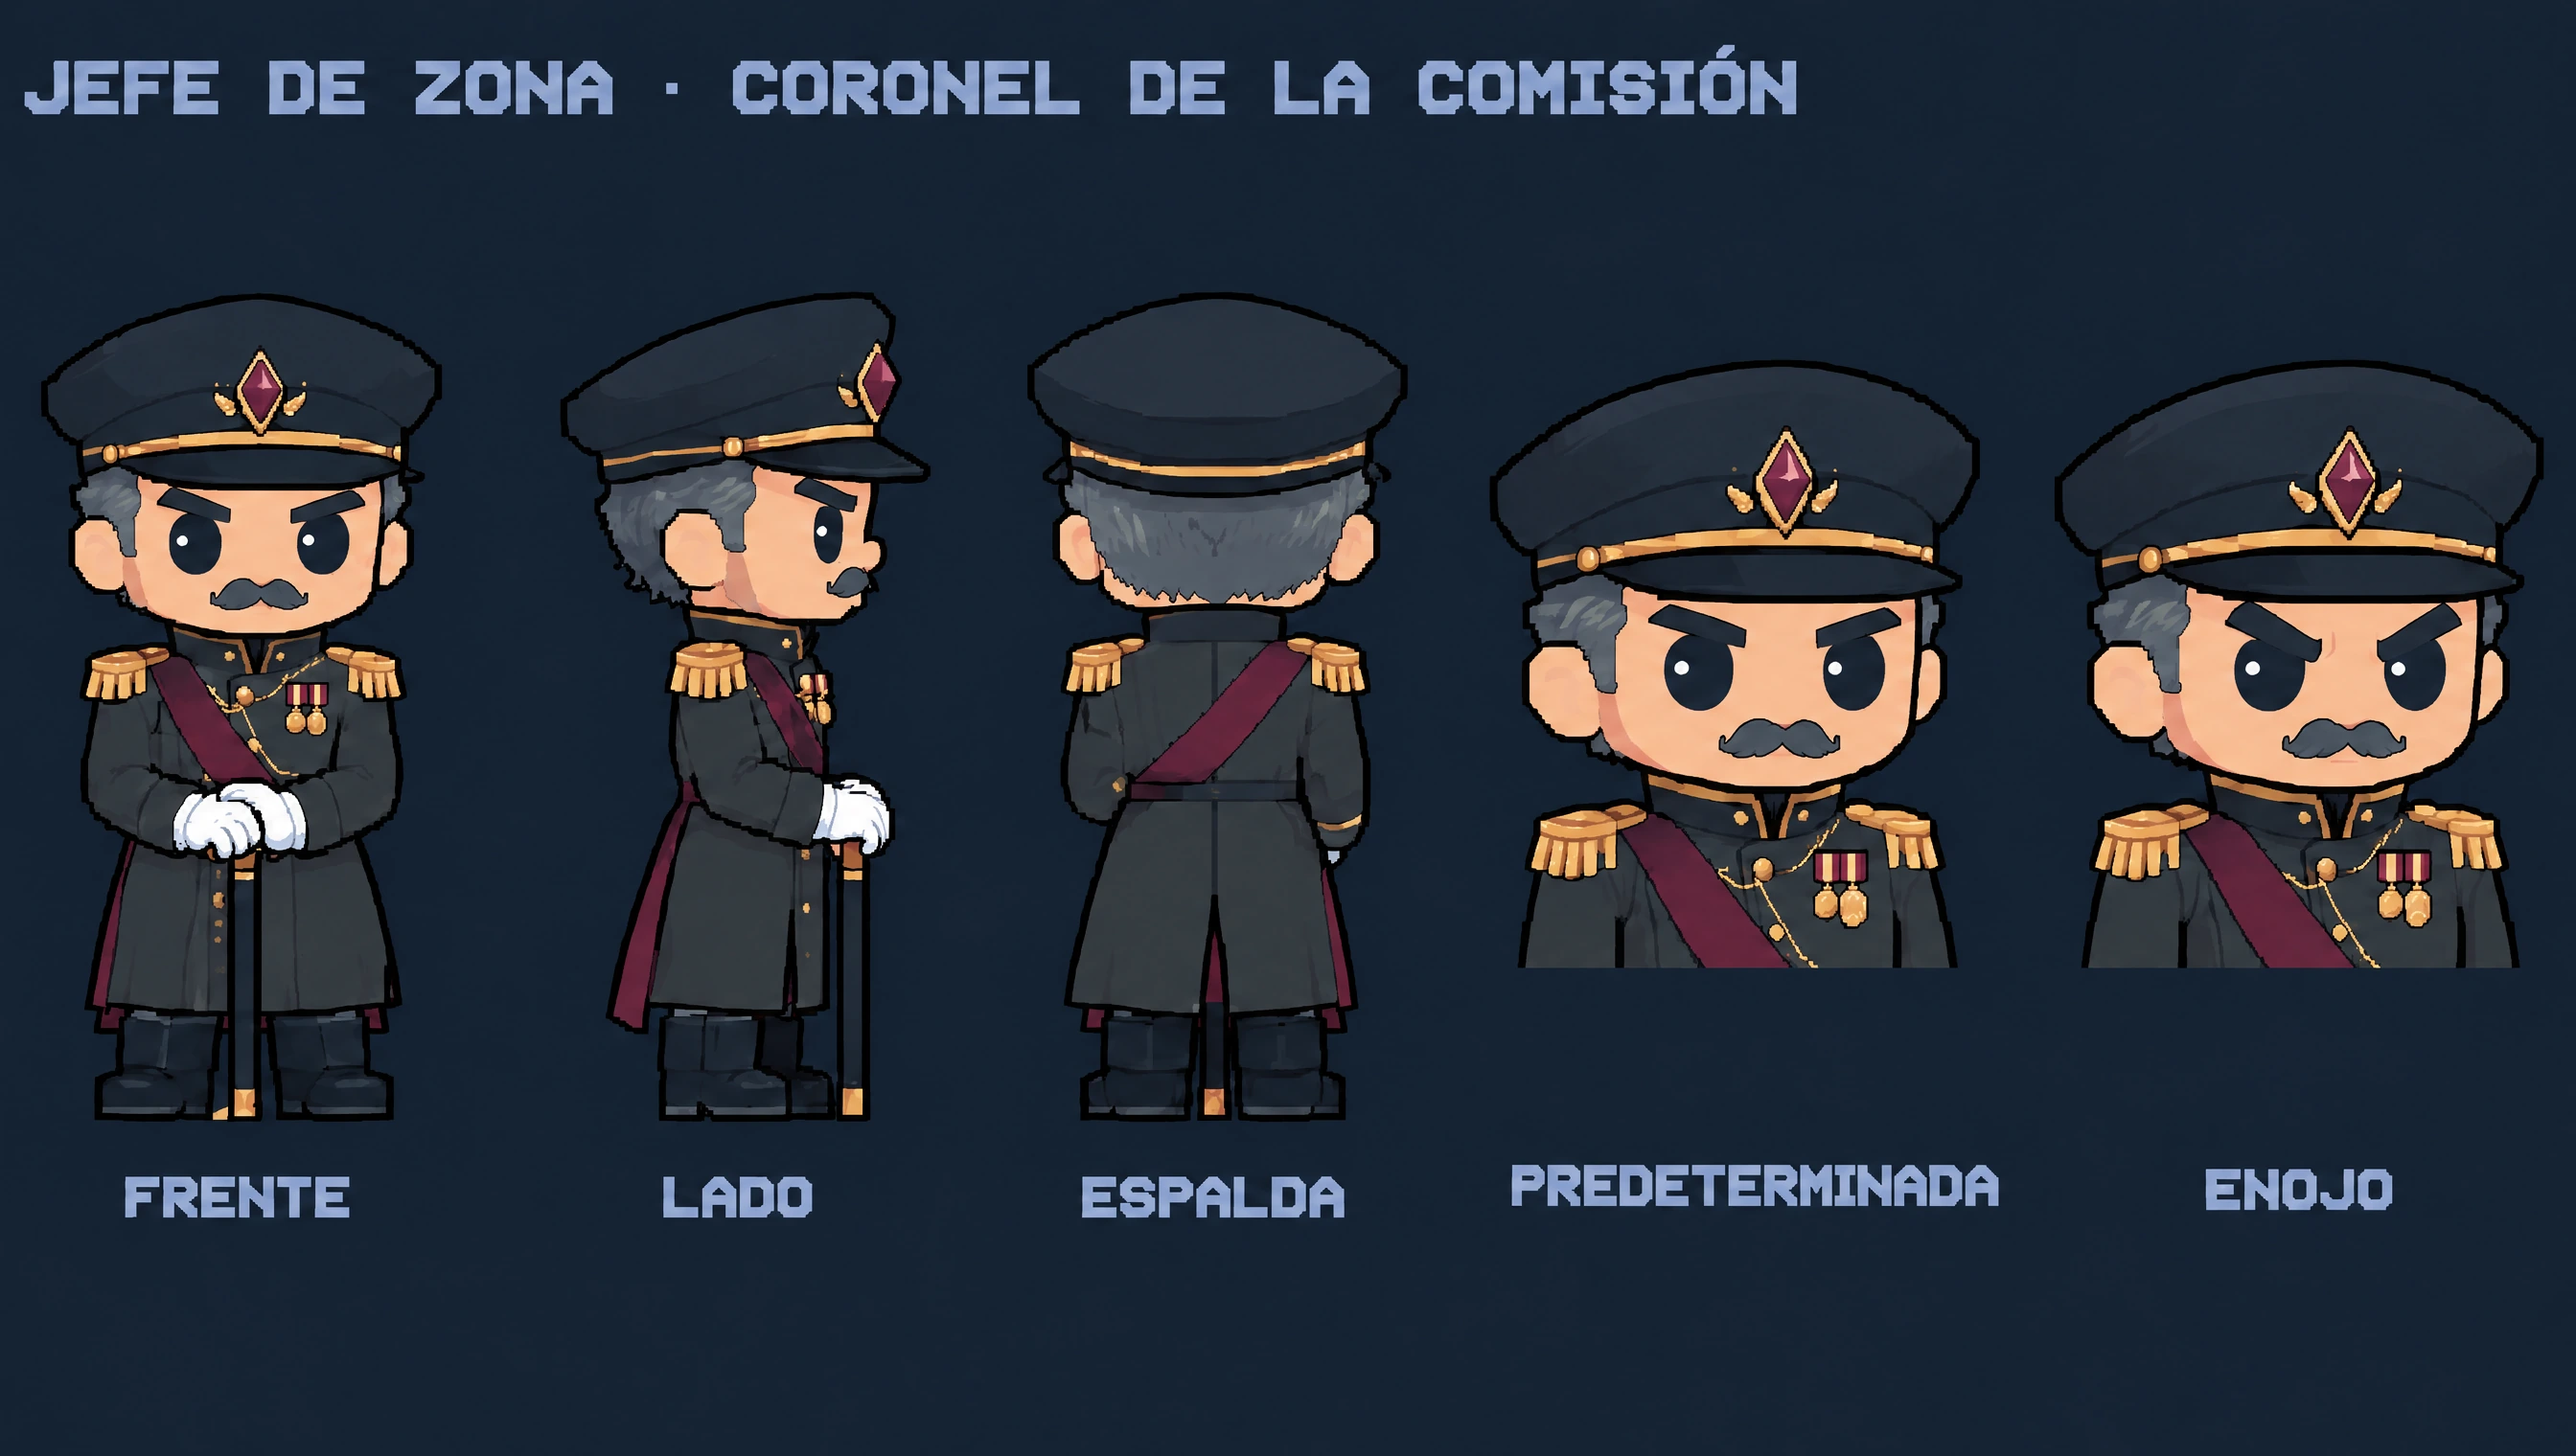
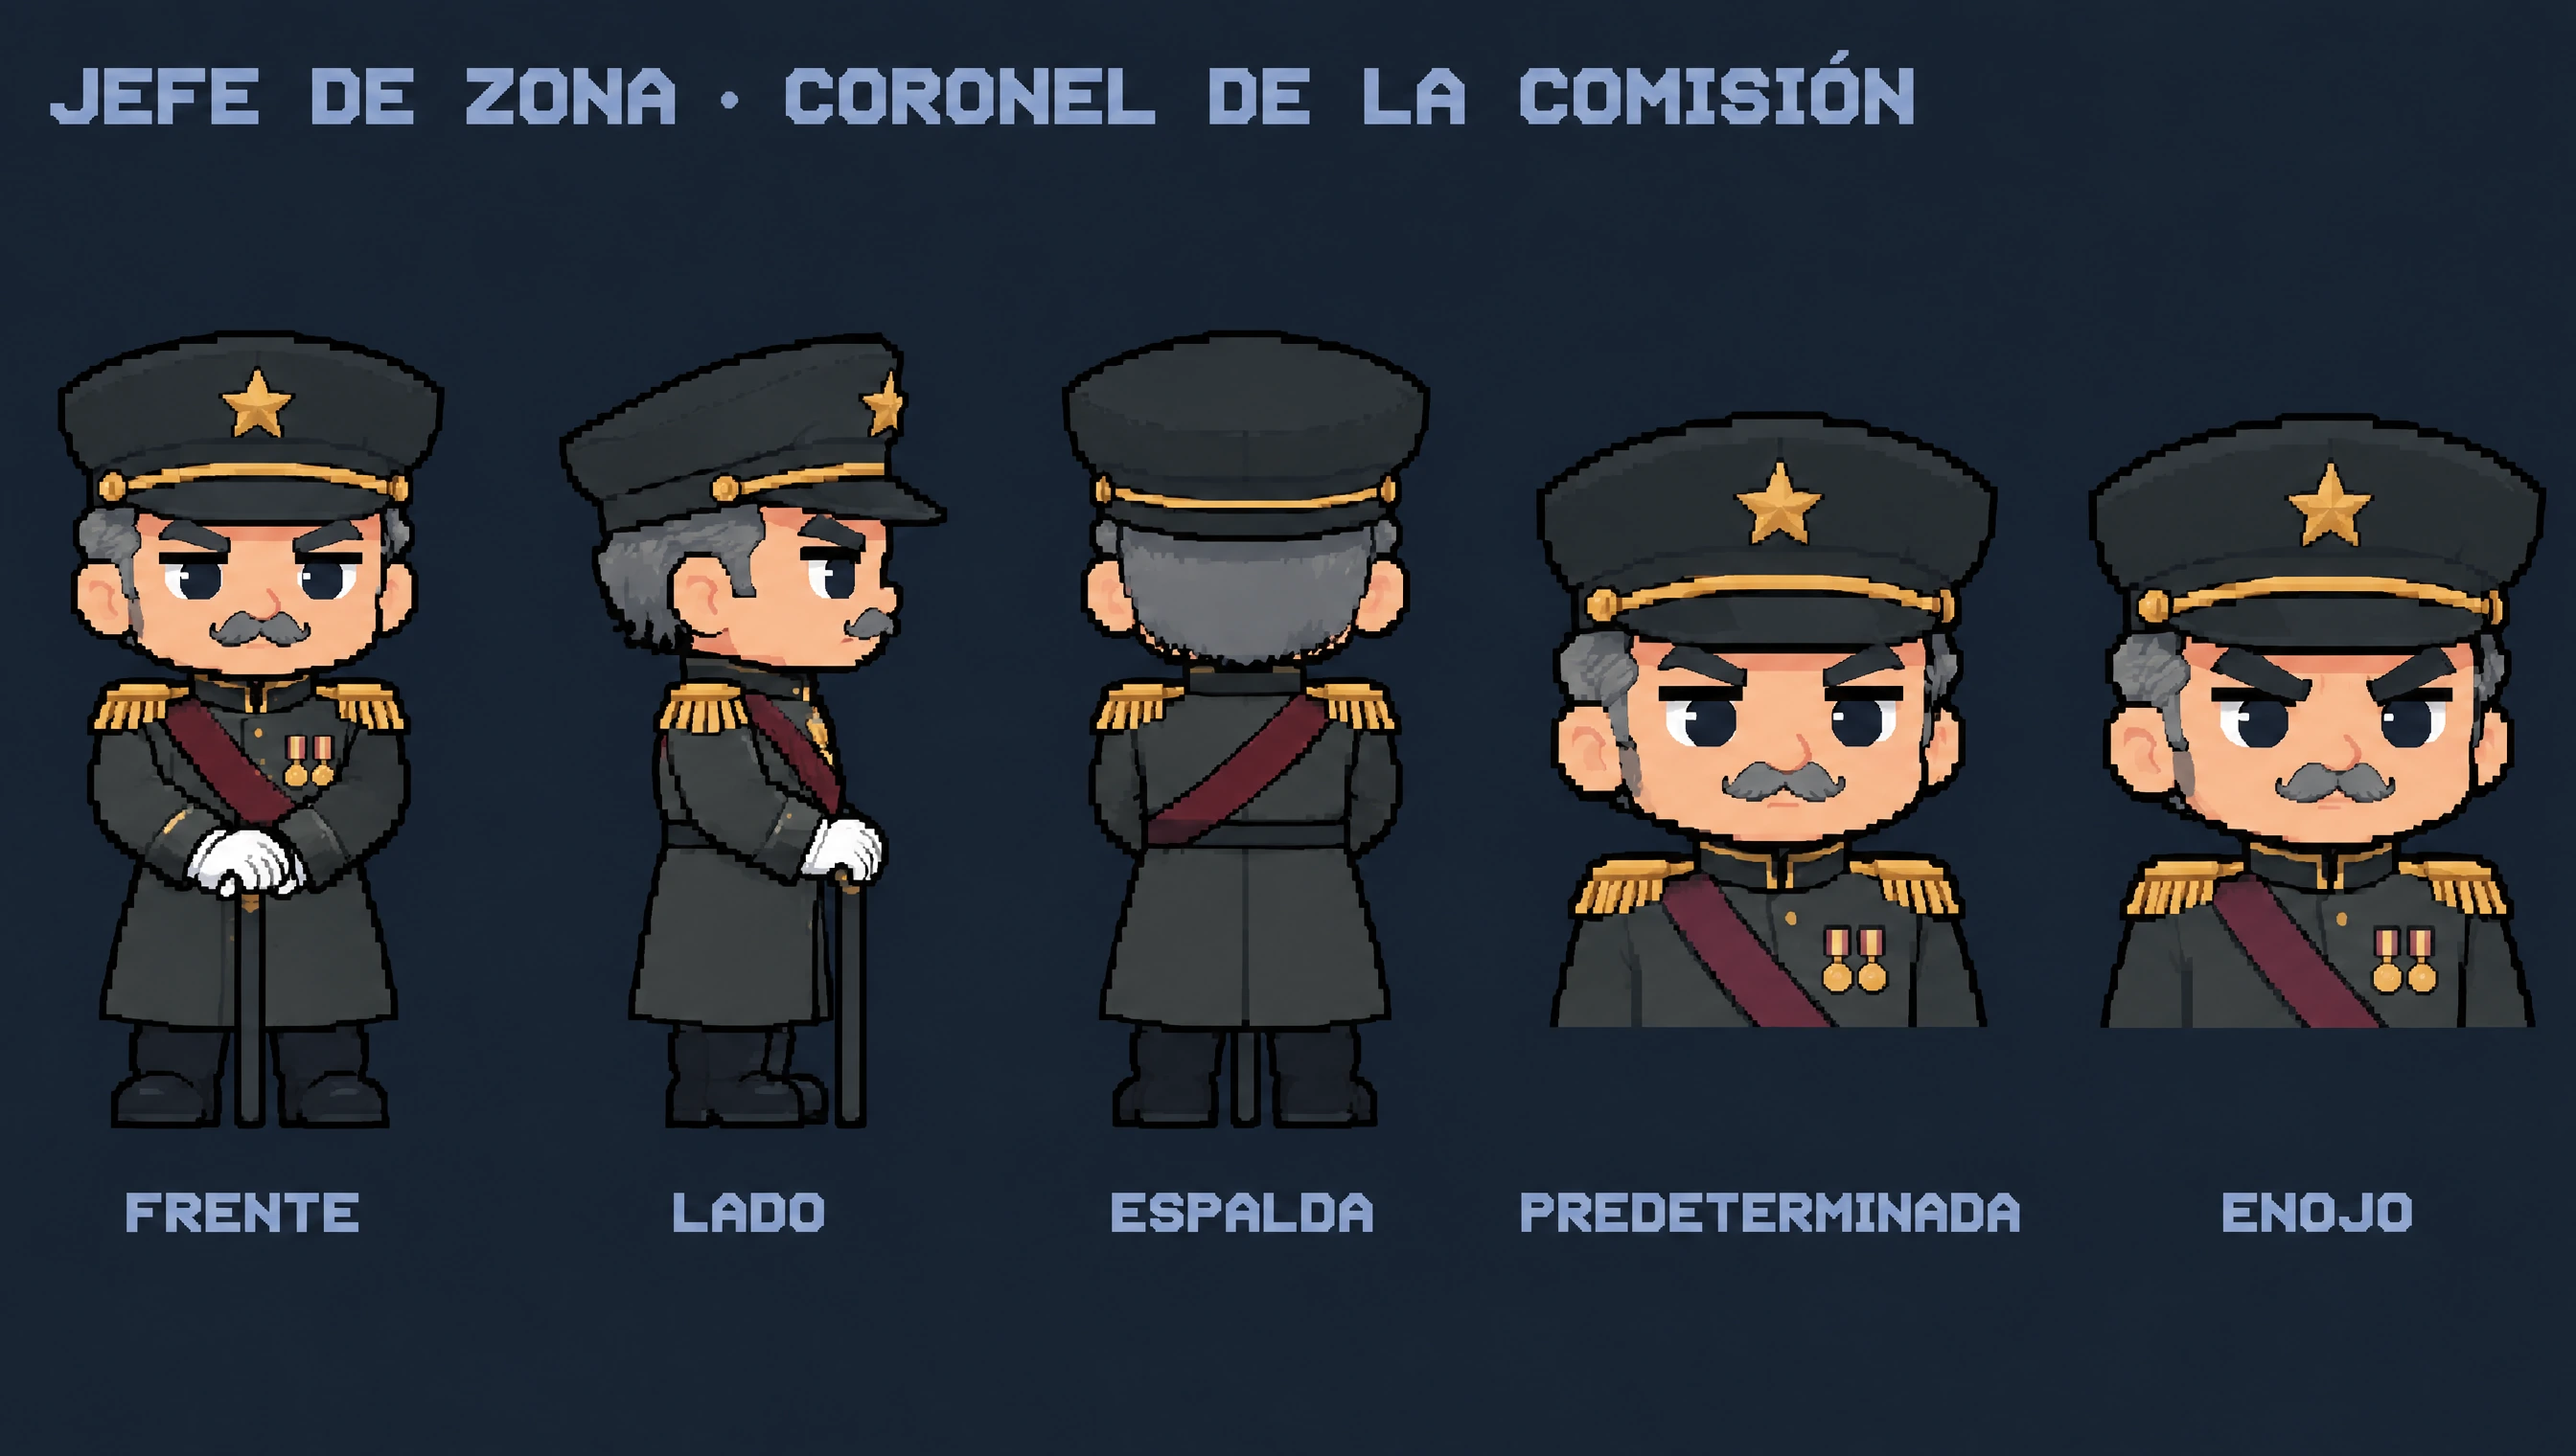
docs(arte): F0-69 rehace desde cero la hoja del coronel de la Comisión

diff --git a/studio/docs/12-direccion-de-arte.md b/studio/docs/12-direccion-de-arte.md
@@ -156,7 +156,7 @@ El juego es **horizontal (landscape)**. Catorce imágenes en `studio/assets-ref/
 | Minas de Sierra Alta | Jefe de seguridad del Consorcio | Abrigo azul pizarra con cuello de piel, gorra con gafas de aviador subidas, brazalete vinotinto y porra |
 | Salares del Litoral | Aduanero Mayor | Uniforme beige manchado de sal, banda vinotinta, medalla de latón, libro de registro y sello |
 | Cavernas de Cristal | Cazarrecompensas Mayor | Gabán carbón, sombrero con cristal cian, grilletes en el cinturón, espuelas y, en el collar, una cápsula de cristal sellada con un fragmento de éter a la vista |
-| La Fosa del Éter | Coronel de la Comisión | Capote verde oliva oscuro, charreteras doradas, gorra con broche de cristal, guantes blancos y bastón negro |
+| La Fosa del Éter | Coronel de la Comisión | Capote verde oliva oscuro, banda vinotinta, charreteras doradas, gorra con estrella dorada de metal, guantes blancos y bastón negro |
 
 ✅ **Regla del éter en el arte:** el éter nunca va suelto sobre el cuerpo de un personaje sano. Solo aparece contenido en una cápsula de cristal sellada, o en los mutados de La Fosa.
 
